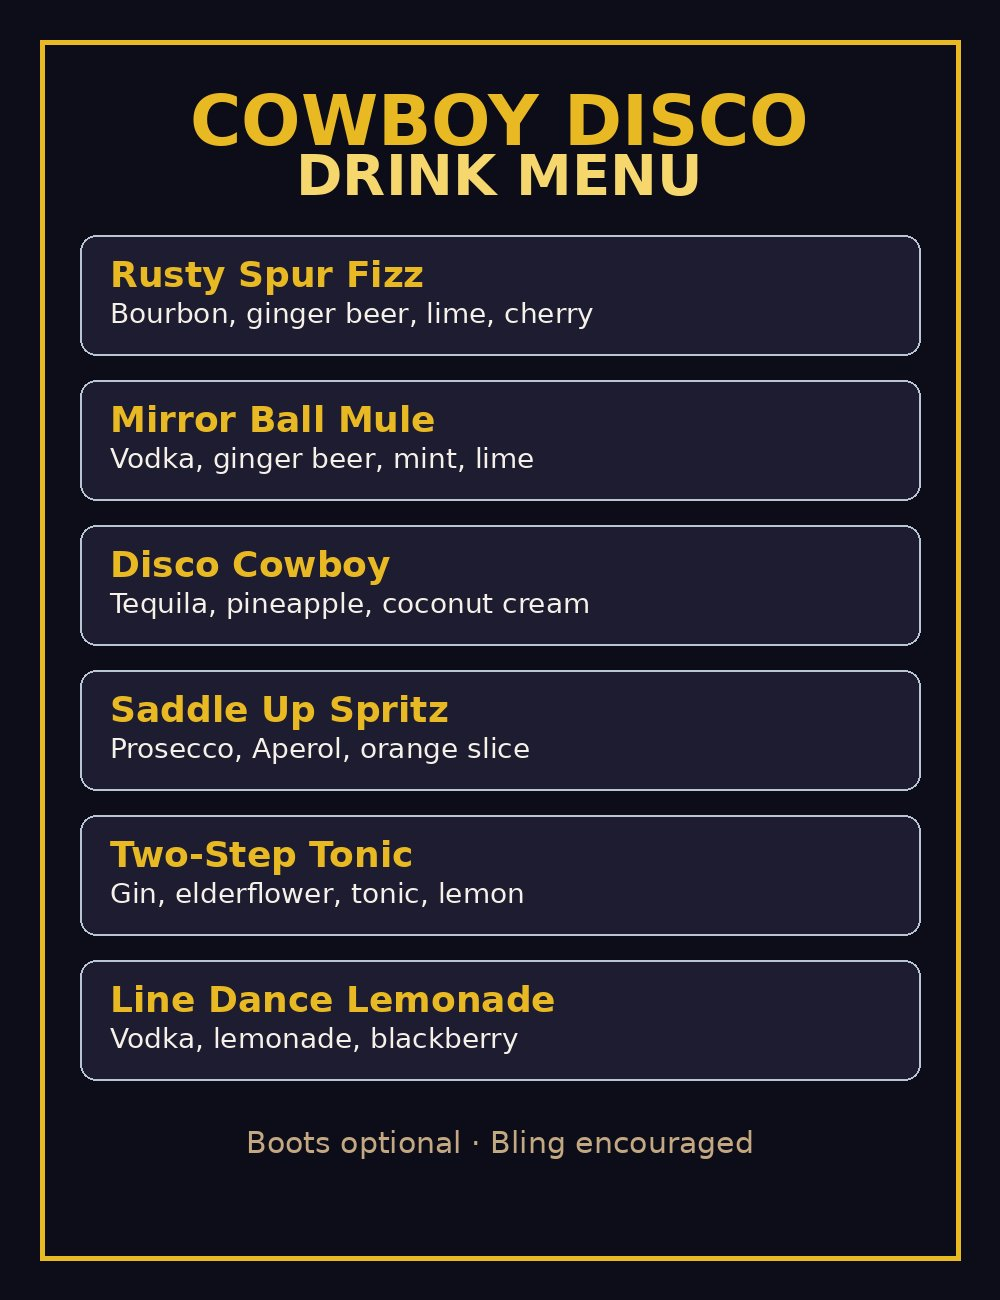
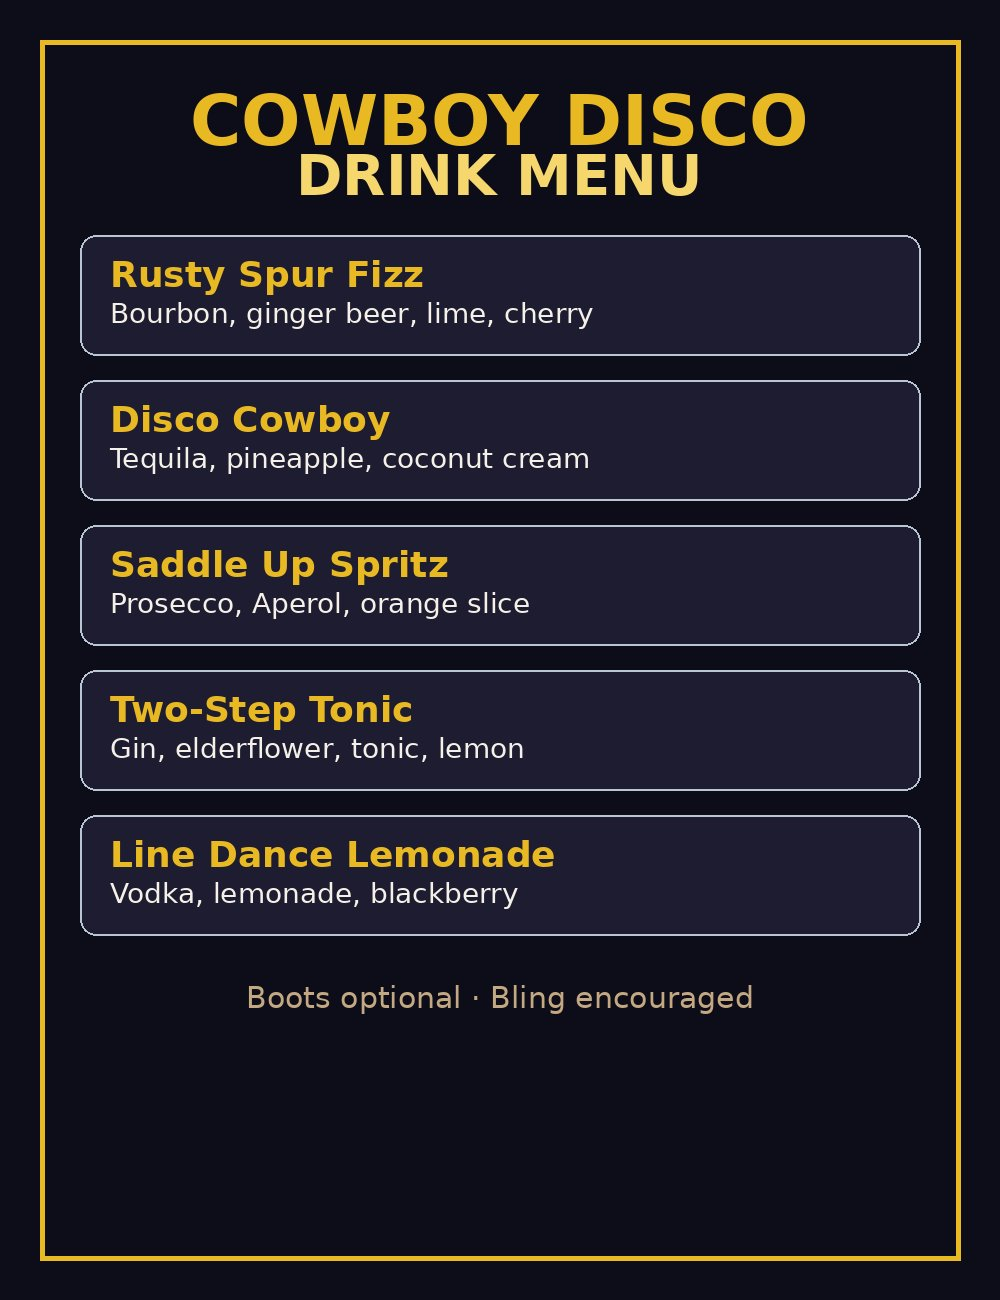
Remove the Mirror Ball Mule from the drink menu
Dropped from the House Cocktails list on the site and from the printed
drink-list generator, leaving five: Rusty Spur Fizz, Disco Cowboy, Saddle
Up Spritz, Two-Step Tonic, and Line Dance Lemonade.

Also updated the places that referenced it indirectly — the section lead
now says five house cocktails, the features blurb name-checks Disco Cowboy
in its place, and the cocktails photo alt text no longer lists it. Only
Rusty Spur Fizz carries the Signature badge now; I did not promote another
drink to fill the gap.

Regenerated drink-list.png and its jpg/webp variants; look photography and
the official poster verified byte-identical afterwards.

'Mirror Ball Mac' on the food labels is a dish, not the cocktail, and was
left alone.

Service worker cache v42.

https://claude.ai/code/session_01RQxgPetRB2BNnArUaiFyPr

diff --git a/index.html b/index.html
@@ -239,7 +239,7 @@
               </span>
               <div>
                 <span class="cosmic-features__title">Themed Cocktails All Night</span>
-                <span class="cosmic-features__desc">Rusty Spur Fizz, Mirror Ball Mule, and the full saloon drink menu from doors to close.</span>
+                <span class="cosmic-features__desc">Rusty Spur Fizz, Disco Cowboy, and the full saloon drink menu from doors to close.</span>
               </div>
             </li>
             <li class="cosmic-features__item">
@@ -708,14 +708,14 @@
         <header class="section__header">
           <p class="section__eyebrow">The Saloon Bar</p>
           <h2>Menu &amp; Drinks</h2>
-          <p>Six house cocktails poured from doors to last call — plus the full saloon spread in the party menu.</p>
+          <p>Five house cocktails poured from doors to last call — plus the full saloon spread in the party menu.</p>
         </header>
         <div class="menu-grid">
           <figure class="menu-card editorial-frame">
             <img
               class="menu-card__img editorial-img"
               src="/assets/editorial-cocktails.jpg"
-              alt="Cowboy Disco Party signature cocktails — Rusty Spur Fizz, Mirror Ball Mule, and more"
+              alt="Cowboy Disco Party signature cocktails — Rusty Spur Fizz and the house drink menu"
               width="1000"
               height="750"
               loading="lazy"
@@ -749,15 +749,6 @@
               </div>
               <p class="bar-menu__spec">Bourbon · Ginger Beer · Lime · Cherry</p>
               <p class="bar-menu__note">Western warmth with a sparkling finish.</p>
-            </li>
-            <li class="bar-menu__item">
-              <div class="bar-menu__row">
-                <h4 class="bar-menu__name">Mirror Ball Mule</h4>
-                <span class="bar-menu__leader" aria-hidden="true"></span>
-                <span class="bar-menu__badge">Signature</span>
-              </div>
-              <p class="bar-menu__spec">Vodka · Ginger Beer · Mint · Lime</p>
-              <p class="bar-menu__note">Studio 54 energy in a copper mug.</p>
             </li>
             <li class="bar-menu__item">
               <div class="bar-menu__row">

diff --git a/sw.js b/sw.js
@@ -1,4 +1,4 @@
-const CACHE = "cdp-v41";
+const CACHE = "cdp-v42";
 const ASSETS = [
   "/",
   "/index.html",

diff --git a/scripts/generate-cowboy-disco-assets.py b/scripts/generate-cowboy-disco-assets.py
@@ -169,7 +169,6 @@ def generate_drink_list() -> None:
 
     drinks = [
         ("Rusty Spur Fizz", "Bourbon, ginger beer, lime, cherry"),
-        ("Mirror Ball Mule", "Vodka, ginger beer, mint, lime"),
         ("Disco Cowboy", "Tequila, pineapple, coconut cream"),
         ("Saddle Up Spritz", "Prosecco, Aperol, orange slice"),
         ("Two-Step Tonic", "Gin, elderflower, tonic, lemon"),
